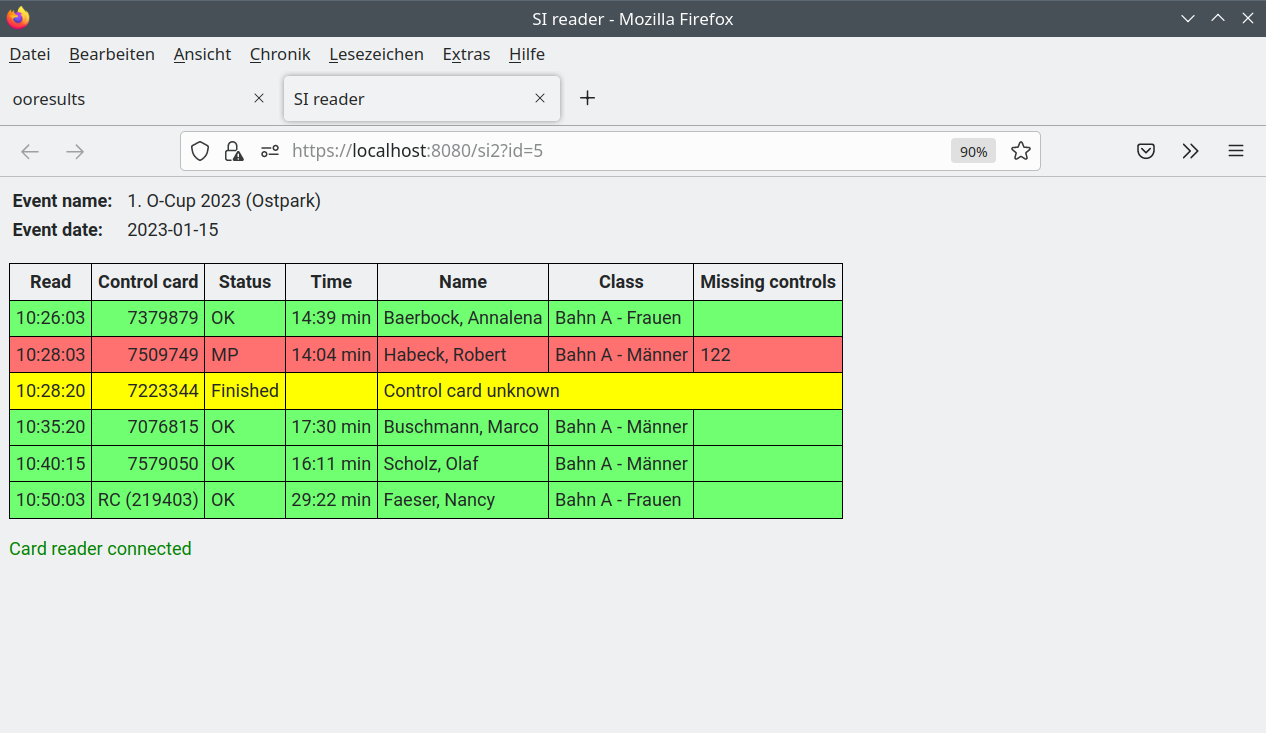
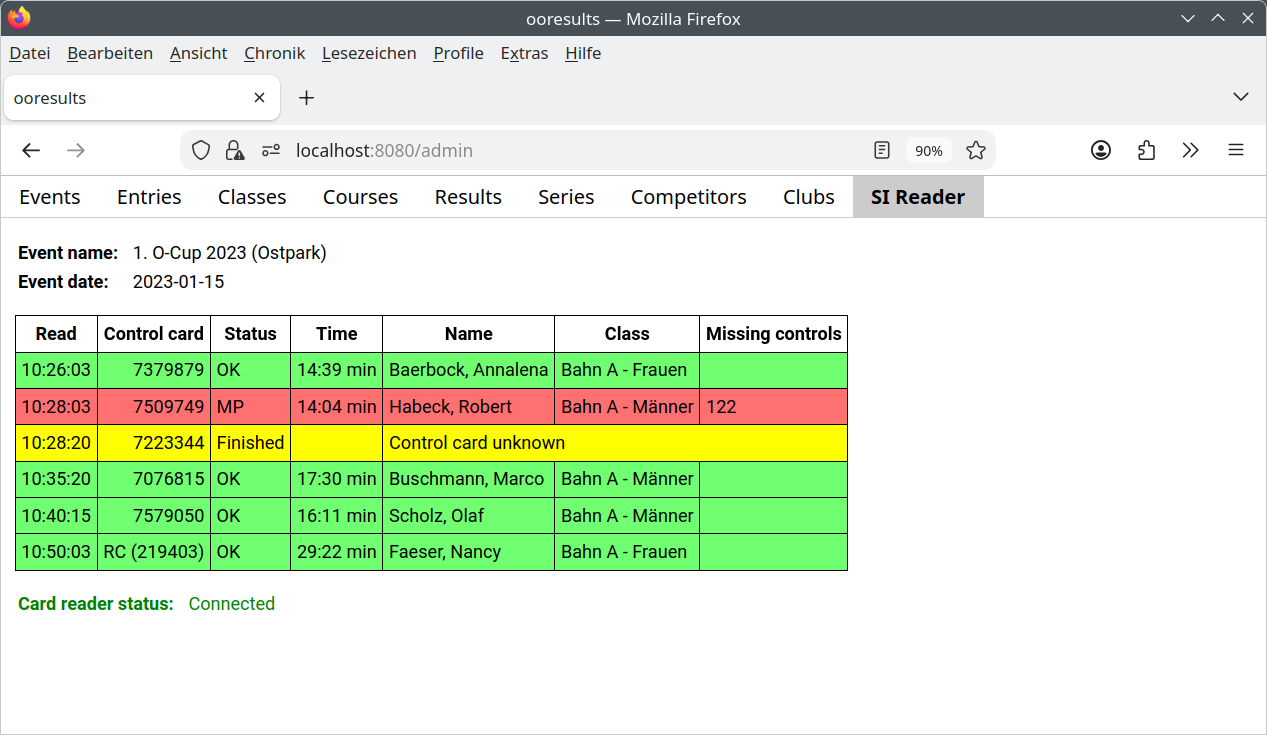
User documentation updated (configuration of an ooresults live server added)

diff --git a/docs/user/live_server.rst b/docs/user/live_server.rst
@@ -1,0 +1,71 @@
+.. raw:: latex
+
+    \clearpage
+
+
+.. _ooresults_live_server:
+
+Veröffentlichung von Ergebnissen über einen ooresults-Live-Server
+-----------------------------------------------------------------
+
+
+Konzept
+^^^^^^^
+
+Ein ooresults-server kann als Live-Server verwendet werden. Seine Wettkampfdaten werden
+dann von einer externen Quelle (z.B. einem anderen ooresults-server) regelmässig aktualisiert.
+Die externe Quelle sendet die Daten als "IOF 3.0 Interface Standard ResultList".
+
+
+.. warning::
+
+   Es ist auch möglich, die Ergebnisse eines Wettkampfes direkt über den ooresults-server,
+   der für die Verwaltung eines Wettkampfes verwendet wird, zu veröffentlichen.
+   Dies kann für ein lokales WLAN ausreichend sein. Für eine Veröffentlichung im Internet sollte aus
+   Stabilitäts- und Sicherheitsgründen ein zweiter ooresults-server verwendet werden.
+
+   
+.. _configuration_live_server:
+
+Konfiguration des ooresults-Live-Server
+^^^^^^^^^^^^^^^^^^^^^^^^^^^^^^^^^^^^^^^
+
+1.  In der Konfiguration ist der Parameter "import_stream" auf "on" zu setzen, siehe auch :ref:`configuration`.
+
+#.  Es ist ein Wettkampf anzulegen, dessen Ergebnisse veröffentlicht und vom ooresults-Wettkampf-Server aktualisiert werden.
+    Für diesen Wettkampf sind folgende Parameter zu setzen:
+
+    - Publish
+
+      Um die Ergebnisdaten des Wettkampfes zu veröffentlichen,
+      ist der Parameter "Publish" dieses Wettkampfes auf true zu setzen.
+      
+    - Key
+
+      Definition eines Schlüssels. Der Schlüssel ist beim Aufbau der Verbindung zum ooresults-server anzugeben,
+      um den Wettkampf zu definieren, für den die empfangenen Daten bestimmt sind.
+
+
+.. _configuration_events_server:
+
+Konfiguration des ooresults-Wettkampf-Server
+^^^^^^^^^^^^^^^^^^^^^^^^^^^^^^^^^^^^^^^^^^^^
+
+1.  Auf dem ooresults-Server, von dem Daten eines Wettkampfes zum ooresults-Live-Server gesendet werden sollen,
+    sind folgende Parameter zu setzen:
+
+    - Streaming address
+
+      Adresse des ooresults-Live-server mit Angabe des Ports, aber ohne Angabe des Protokolls,
+      z.B. "server.com:8081".
+
+
+    - Streaming key
+
+      Key des Wettkampfes auf dem ooresults-Live-Server, für den die gesendeten Ergebnisse bestimmt sind.
+
+      
+    - Streaming enabled
+
+      Es werden nur dann Daten zum ooresults-Live-Server gesendet, wenn die Parameter "Streaming address"
+      und "Streaming key" definiert und "Streaming enabled" eingeschaltet ist.

diff --git a/docs/user/reference_guide.rst b/docs/user/reference_guide.rst
@@ -23,6 +23,49 @@ Date
    Datum, an dem der Wettkampf stattfindet, z.B. 2022-03-31.
 
 
+Key
+
+   Definition eines Schlüssels. Der Schlüssel ist beim Aufbau der Verbindung zum ooresults-server anzugeben,
+   um den Wettkampf zu definieren, für den die empfangenen Daten bestimmt sind. Er wird sowohl von einem
+   ooresults-reader zur Übertragung von eingelesenen SICard Daten als auch von einem anderen ooresults-server
+   zur Übertragung von Live-Ergebnissen verwendet.
+   
+   .. warning::
+   
+      Der Schlüssel dient nicht nur der Zuordnung der Daten zu einem Wettkampf, sondern auch als Nachweis der Zugangsberechtigung
+      des Leseprogramms. Nur das Leseprogramm, das den Wettkampfschlüssel kennt, kann SI-Card Daten in der Datenbank speichern.
+      Der Schlüssel ist daher wie ein Passwort geheimzuhalten und sollte üblichen Passwortrichtlinien entsprechen.
+
+      
+Publish
+
+   Ist "Publish" eingeschaltet, können die Ergebnisses des Wettkampfes
+   ohne Angabe eines Passwortes vom ooresults-server gelesen werden.
+   
+   Derzeit können nur die Ergebnisdaten eines Wettkampfes veröffentlicht werden.
+   Ist "Publish" für mehrere Wettkämpfe aktiviert, wird der Wettkampf mit dem
+   aktuellsten Datum verwendet.
+
+
+Streaming address
+
+   Adresse eines ooresults-server, zu dem Ergebnisdaten des Wettkampfes
+   als IOF Interface Standard 3.0 ResultList übertragen werden sollen
+   (mit Angabe des Ports, aber ohne Angabe des Protokolls, z.B. „server.com:8081“).
+
+
+Streaming key
+
+   Key des Wettkampfes eines ooresults-server, zu dem die Ergebnisdaten gesendet werden sollen.
+
+
+Streaming enabled
+
+   Nur wenn eine "Streaming address" und ein "Streaming key" definiert sind
+   und "Streaming enabled" eingeschaltet ist, werden Daten zu einem anderen ooresults-server
+   gesendet.
+
+
 .. _entries:
 
 Entries

diff --git a/docs/user/configuration.rst b/docs/user/configuration.rst
@@ -22,6 +22,7 @@ Existiert keine solche Datei wird sie mit folgendem Inhalt angelegt:
    ssl_cert =
    ssl_key =
    demo_reader = off
+   import_stream = off
 
    [Cardreader]
    host = 127.0.0.1
@@ -49,7 +50,7 @@ Es bedeuten:
 [Server]demo_reader
 
    Ist der Eintrag demo_reader on, kann unter der Adresse https://localhost:8080/demo
-   ein Seite aufgerufen werden, mit der das Auslesen einer SiCards simuliert werden kann,
+   eine Seite aufgerufen werden, mit der das Auslesen einer SiCard simuliert werden kann,
    siehe Abschnitt :ref:`demo_cardreader`.
 
    .. note::
@@ -57,6 +58,19 @@ Es bedeuten:
       Aus Sicherheitsgründen sollte demo_reader nur zum Kennenlernen der Software auf "on"
       und sonst auf "off" gesetzt werden.
 
+
+[Server]import_stream
+
+   Ist der Eintrag import_stream "on", können unter der Adresse "wss://<server>:8081/import"
+   IOF Interface Standard 3.0 ResultList Daten empfangen werden. Dies ist z.B. dann notwendig,
+   wenn der ooresults-server zum Veröffentlichen von Live-Egebnissen verwendet werden soll,
+   siehe Abschnitt :ref:`ooresults_live_server`.
+
+   .. note::
+
+      Aus Sicherheitsgründen sollte import_stream nur auf "on" gesetzt werden,
+      wenn Ergebnisdaten über das Streaming Interface empfangen werden sollen.
+      
 
 .. index:: ooresults-reader; Konfiguration
 

diff --git a/docs/user/additional_functions.rst b/docs/user/additional_functions.rst
@@ -1,37 +1,14 @@
 Weitere Funktionen
 ==================
 
-.. only:: html
-
-   .. contents::
-      :depth: 2
 
 
-.. _rental_cards:
 
-Ausleihbare SPORTident Karten
------------------------------
+.. toctree::
+   :maxdepth: 2
+   
+   rental_cards
+   live_server
 
-Um die Verwaltung ausgeliehener SPORTident Karten zu erleichtern,
-können ausleihbare Karten in einer Datei rental_cards.txt erfasst werden.
-Die Datei wird im Unterverzeichnis .ooresults des Heimverzeichnisses des Benutzers gesucht
-und enthält pro Zeile die Nummer einer SPORTident Karte.
-
-.. code-block::
-
-   219402
-   219403
-   219412
-
-
-Ist die Nummer einer von einem Teilnehmer verwendeten SPORTident Karte in dieser Datei enthalten,
-wird sie in den Tabellen der Registerblätter "Entries" und "SI Cardreader" in den entsprechenden Spalten
-als "RC (...)" dargestellt (RC = rental card).
-
-.. image:: images/rental_card_1_edited.png
-
-.. warning::
-
-   Die Datei rental_cards.txt wird nur einmal während des Starts des ooresult-server gelesen.
-   Sollen nach einer Änderung der Datei die geänderten Daten verwendet werden,
-   muss der ooresult-server beendet und neu gestartet werden.
+.. include: rental_cards.rst
+.. include: live_server.rst

diff --git a/docs/user/rental_cards.rst b/docs/user/rental_cards.rst
@@ -1,0 +1,34 @@
+.. raw:: latex
+
+    \clearpage
+
+
+.. _rental_cards:
+
+Ausleihbare SPORTident Karten
+-----------------------------
+
+Um die Verwaltung ausgeliehener SPORTident Karten zu erleichtern,
+können ausleihbare Karten in einer Datei rental_cards.txt erfasst werden.
+Die Datei wird im Unterverzeichnis .ooresults des Heimverzeichnisses des Benutzers gesucht
+und enthält pro Zeile die Nummer einer SPORTident Karte.
+
+.. code-block::
+
+   219402
+   219403
+   219412
+
+
+Ist die Nummer einer von einem Teilnehmer verwendeten SPORTident Karte in dieser Datei enthalten,
+wird sie in den Tabellen der Registerblätter "Entries" und "SI Reader" in den entsprechenden Spalten
+als "RC (...)" dargestellt (RC = rental card).
+
+.. image:: images/rental_card_1_edited.png
+
+.. warning::
+
+   Die Datei rental_cards.txt wird nur einmal während des Starts des ooresult-server gelesen.
+   Sollen nach einer Änderung der Datei die geänderten Daten verwendet werden,
+   muss der ooresult-server beendet und neu gestartet werden.
+ 
